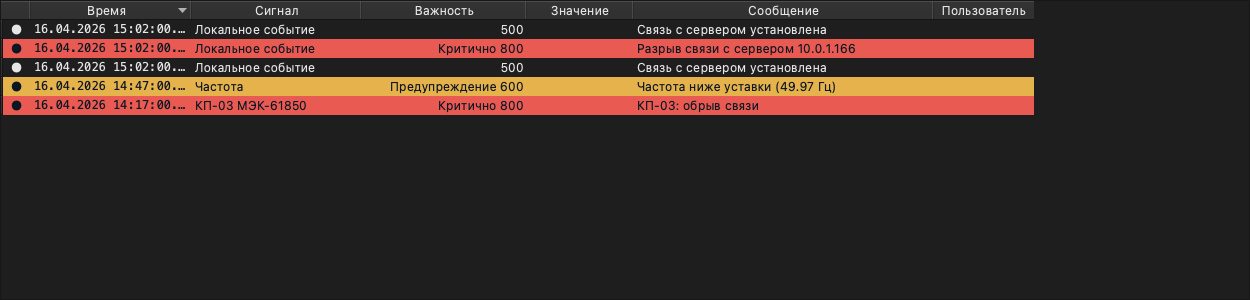
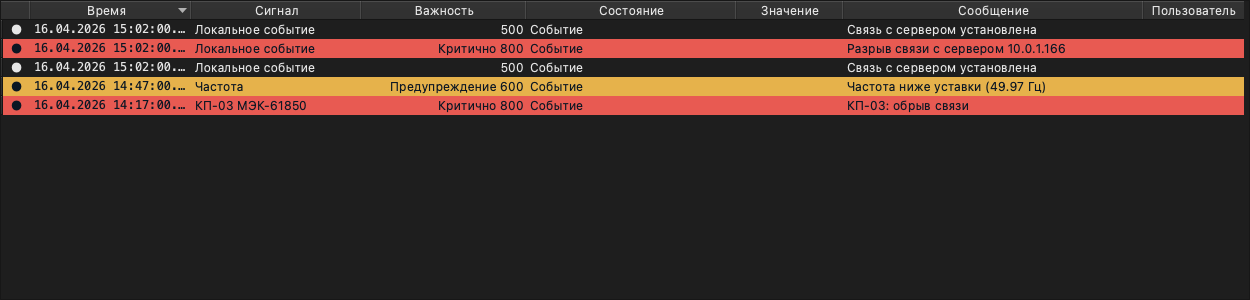
1117: the annunciator reads unread criticals through the status-bar model; gallery, FR-6
The main window rebuilt SeverityTileCounts field by field from
StatusBarModel and left unacknowledged_critical at zero, so the annunciator
never lit (client_screenshot_check caught it). StatusBarModel gains
GetUnackedCriticalCount, fed by EventStatusProvider.

Re-rendered the five captures the events table's new State column stales,
in dark and light: events, events-alarm-surface, audit-log,
workbench-window and workbench-overview. Only their manifest rows are
restamped.

diff --git a/modules/events/event_table_model_unittest.cpp b/modules/events/event_table_model_unittest.cpp
@@ -1,5 +1,7 @@
 #include "events/event_table_model.h"
+
 #include "aui/translation.h"
+#include "events/alarm_state.h"
 
 #include "base/test/awaitable_test.h"
 #include "base/test/test_executor.h"
@@ -403,6 +405,47 @@ class EventJournalAlarmSurfaceTest : public EventTableModelTest {
     return -1;
   }
 };
+
+// ISA-18.2's three alarm-list states on the events panel (backlog 1117): an
+// acknowledged Condition still standing keeps its row — no pending dot, no
+// fill, its state spelled out — instead of leaving the panel the moment it was
+// acknowledged; one that cleared unread is drawn plain with its dot.
+TEST_F(EventJournalAlarmSurfaceTest, ConditionRowsShowTheirAlarmState) {
+  scada::Event& first = FirstEvent();
+  first.severity = scada::kSeverityCritical;
+  first.condition_id = first.source_node_id;
+  first.active = true;
+  Init();
+
+  EXPECT_EQ(CellText(EventColumnState),
+            events::AlarmStateLabel(events::AlarmState::kUnackedActive));
+  EXPECT_EQ(CellBackground(),
+            BackgroundFor(scada::aui::EventBackground::kCritical));
+  const int rows = event_table_model_->GetRowCount();
+
+  first.acked = true;
+  first.acknowledged_time = scada::Now();
+  const scada::Event* updated[] = {&first};
+  event_observer_->OnEvents(updated);
+
+  ASSERT_EQ(event_table_model_->GetRowCount(), rows);
+  EXPECT_EQ(&event_table_model_->event_at(0), &first);
+  EXPECT_FALSE(event_table_model_->IsRowPending(0));
+  EXPECT_EQ(CellText(EventColumnState),
+            events::AlarmStateLabel(events::AlarmState::kAckedActive));
+  EXPECT_NE(CellBackground(),
+            BackgroundFor(scada::aui::EventBackground::kCritical));
+
+  first.acked = false;
+  first.acknowledged_time = {};
+  first.active = false;
+  event_observer_->OnEvents(updated);
+  EXPECT_TRUE(event_table_model_->IsRowPending(0));
+  EXPECT_EQ(CellText(EventColumnState),
+            events::AlarmStateLabel(events::AlarmState::kUnackedReturned));
+  EXPECT_NE(CellBackground(),
+            BackgroundFor(scada::aui::EventBackground::kCritical));
+}
 
 // A client-side error is an alarm like any other: `LocalEvents::ReportEvent`
 // maps `SEV_ERROR` onto `scada::kSeverityCritical`, the journal bands on

diff --git a/main_window/status_bar/event_status_provider_unittest.cpp b/main_window/status_bar/event_status_provider_unittest.cpp
@@ -126,4 +126,32 @@ TEST_F(EventStatusTileCountsTest, CountsFallAsAlarmsAreAcknowledged) {
                 .critical = 0, .warning = 1, .unacknowledged = 1}));
 }
 
+// ISA-18.2 states in the counts (backlog 1117): an acknowledged critical
+// still standing stays in the Critical tile but is no longer unread, and one
+// that cleared unread has left the tile but still annunciates. The main window
+// rebuilds the counts from the status-bar model, so the unread-critical count
+// is its own accessor.
+TEST_F(EventStatusTileCountsTest, AcknowledgedStandingAndClearedUnreadCount) {
+  scada::Event standing;
+  standing.event_id = 1;
+  standing.severity = scada::kSeverityCritical;
+  standing.source_node_id = scada::NodeId{7, 1};
+  standing.condition_id = standing.source_node_id;
+  standing.active = true;
+  standing.acked = true;
+  node_event_provider_.current_events_.emplace(1, standing);
+
+  scada::Event cleared = standing;
+  cleared.event_id = 2;
+  cleared.source_node_id = cleared.condition_id = scada::NodeId{8, 1};
+  cleared.active = false;
+  cleared.acked = false;
+  node_event_provider_.current_events_.emplace(2, cleared);
+
+  EXPECT_EQ(provider_.GetSeverityCount(scada::aui::SeverityLevel::kCritical),
+            1);
+  EXPECT_EQ(provider_.GetAlarmCount(), 1);
+  EXPECT_EQ(provider_.GetUnackedCriticalCount(), 1);
+}
+
 }  // namespace

diff --git a/aui/models/status_bar_model_impl.h b/aui/models/status_bar_model_impl.h
@@ -41,6 +41,9 @@ class StatusBarModelImpl final : public StatusBarModel {
   // Supplies the per-severity alarm counts surfaced via GetSeverityCount().
   void SetSeverityCountProvider(SeverityCountProvider provider);
 
+  // Supplies the unread-critical count surfaced via GetUnackedCriticalCount().
+  void SetUnackedCriticalCountProvider(AlarmCountProvider provider);
+
   void NotifyPanesChanged(int index, int count = 1);
 
   // StatusBarModel
@@ -51,6 +54,7 @@ class StatusBarModelImpl final : public StatusBarModel {
   virtual bool IsPaneHiddenWhenEmpty(int index) const override;
   virtual int GetAlarmCount() const override;
   virtual int GetSeverityCount(SeverityLevel level) const override;
+  virtual int GetUnackedCriticalCount() const override;
   [[nodiscard]] virtual boost::signals2::scoped_connection
   SubscribePanesChanged(const PanesChangedCallback& callback) override;
 
@@ -58,6 +62,7 @@ class StatusBarModelImpl final : public StatusBarModel {
   std::vector<StatusPane> panes_;
   AlarmCountProvider alarm_count_provider_;
   SeverityCountProvider severity_count_provider_;
+  AlarmCountProvider unacked_critical_count_provider_;
 
   boost::signals2::signal<void(int, int)> panes_changed_signal_;
 };

diff --git a/aui/models/status_bar_model_impl.cpp b/aui/models/status_bar_model_impl.cpp
@@ -20,6 +20,11 @@ void StatusBarModelImpl::SetSeverityCountProvider(
   severity_count_provider_ = std::move(provider);
 }
 
+void StatusBarModelImpl::SetUnackedCriticalCountProvider(
+    AlarmCountProvider provider) {
+  unacked_critical_count_provider_ = std::move(provider);
+}
+
 int StatusBarModelImpl::GetPaneCount() const {
   return static_cast<int>(panes_.size());
 }
@@ -48,6 +53,11 @@ int StatusBarModelImpl::GetAlarmCount() const {
 
 int StatusBarModelImpl::GetSeverityCount(SeverityLevel level) const {
   return severity_count_provider_ ? severity_count_provider_(level) : 0;
+}
+
+int StatusBarModelImpl::GetUnackedCriticalCount() const {
+  return unacked_critical_count_provider_ ? unacked_critical_count_provider_()
+                                          : 0;
 }
 
 boost::signals2::scoped_connection StatusBarModelImpl::SubscribePanesChanged(

diff --git a/aui/models/status_bar_model.h b/aui/models/status_bar_model.h
@@ -42,6 +42,11 @@ class StatusBarModel {
   // KPI tiles. Refreshed with the panes; default 0 for models without alarms.
   virtual int GetSeverityCount(SeverityLevel level) const { return 0; }
 
+  // Count of critical alarms nobody has acknowledged, standing or cleared: the
+  // escalation ladder's annunciator rung. Not the critical severity count,
+  // which counts standing alarms whether read or not (backlog 1117).
+  virtual int GetUnackedCriticalCount() const { return 0; }
+
   // Notifies after the text of |count| panes starting at |index| changed.
   [[nodiscard]] virtual boost::signals2::scoped_connection
   SubscribePanesChanged(const PanesChangedCallback& callback) = 0;

diff --git a/main_window/main_window_qt.cpp b/main_window/main_window_qt.cpp
@@ -339,7 +339,9 @@ void MainWindow::CreateContextBar() {
                 scada::aui::SeverityLevel::kCritical),
             .warning = status_bar_model_->GetSeverityCount(
                 scada::aui::SeverityLevel::kWarning),
-            .unacknowledged = status_bar_model_->GetAlarmCount()};
+            .unacknowledged = status_bar_model_->GetAlarmCount(),
+            .unacknowledged_critical =
+                status_bar_model_->GetUnackedCriticalCount()};
       },
       [this](const QString& initial_text) { ShowCommandPalette(initial_text); },
       this);

diff --git a/main_window/status_bar/status_bar_model_builder.cpp b/main_window/status_bar/status_bar_model_builder.cpp
@@ -36,6 +36,10 @@ std::shared_ptr<scada::aui::StatusBarModel> StatusBarModelBuilder::Build() {
   model->SetSeverityCountProvider(std::bind_front(
       &EventStatusProvider::GetSeverityCount, event_status_provider));
 
+  // Unread criticals, for the annunciator rung beside the tiles (backlog 1117).
+  model->SetUnackedCriticalCountProvider(std::bind_front(
+      &EventStatusProvider::GetUnackedCriticalCount, event_status_provider));
+
   event_status_provider->Init([model, panel_filter_pane_index] {
     model->NotifyPanesChanged(panel_filter_pane_index);
   });

diff --git a/main_window/status_bar/event_status_provider.h b/main_window/status_bar/event_status_provider.h
@@ -46,6 +46,10 @@ class EventStatusProvider final : private EventObserver {
   // the live severity KPI tiles.
   int GetSeverityCount(scada::aui::SeverityLevel level) const;
 
+  // Number of critical alarms nobody has acknowledged, standing or cleared,
+  // for the escalation ladder's annunciator (backlog 1117).
+  int GetUnackedCriticalCount() const;
+
  private:
   // EventObserver
   void OnEvents(std::span<const scada::Event* const> events) override;

diff --git a/main_window/status_bar/event_status_provider.cpp b/main_window/status_bar/event_status_provider.cpp
@@ -52,6 +52,10 @@ int EventStatusProvider::GetSeverityCount(
   return 0;
 }
 
+int EventStatusProvider::GetUnackedCriticalCount() const {
+  return GetTileCounts().unacknowledged_critical;
+}
+
 std::u16string EventStatusProvider::GetPanelFilterText() const {
   // The events panel's threshold, which hides rows from that panel only
   // (backlog 889); the fetcher behind the top-bar tiles is never narrowed.

diff --git a/aui/models/status_bar_model_mock.h b/aui/models/status_bar_model_mock.h
@@ -18,4 +18,4 @@ class MockStatusBarModel : public StatusBarModel {
               (override));
 };
 
-}  // namespace aui
+}  // namespace scada::aui
